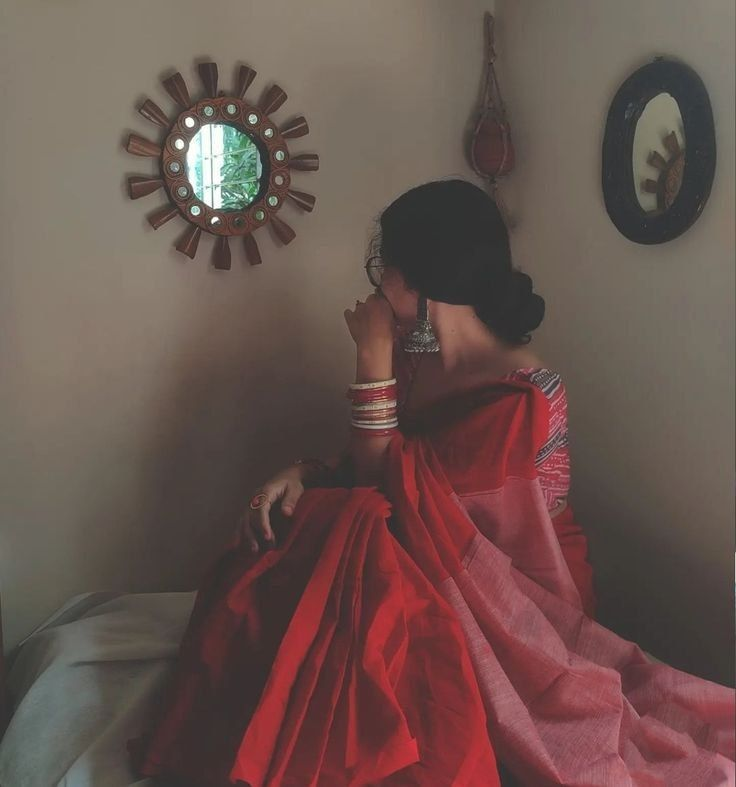
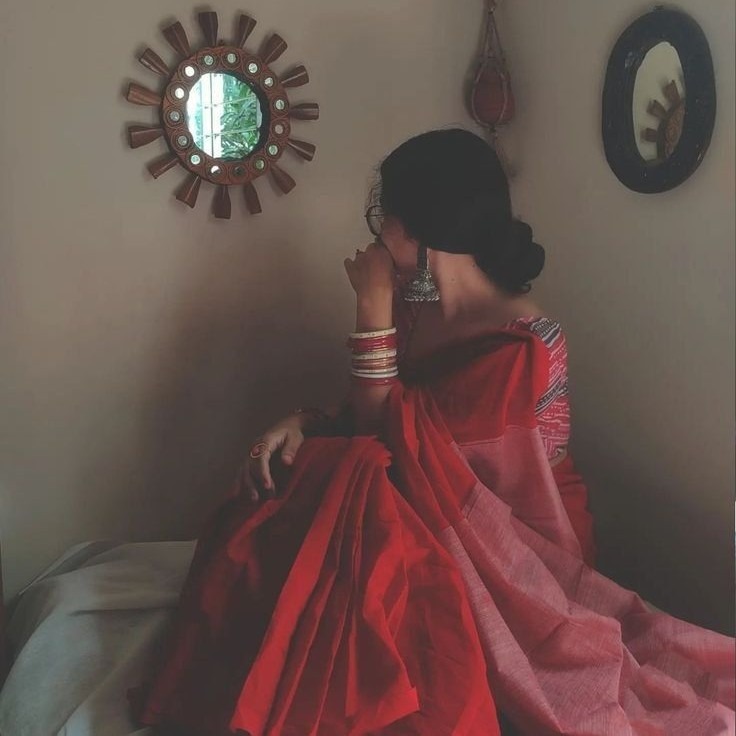
complete exclusive section functionality remaining

diff --git a/src/components/common/ProductShowcase.scss b/src/components/common/ProductShowcase.scss
@@ -4,26 +4,48 @@
 
   .product-images {
     flex: 1;
+    position: relative;
     .main-image {
       width: 100%;
-      
+      max-height: 800px; // Optional: set a fixed height to prevent page shift
+      object-fit: cover;
+      display: block;
       
     }
 
     .thumbnails {
-      display: flex;
-      gap: 0.5rem;
-      margin-top: 1rem;
-
+       position: absolute;
+    bottom: 1rem; // Adjust this based on your design
+    left: 50%;
+    transform: translateX(-50%);
+    display: flex;
+    flex-direction: row;
+    justify-content: center;
+    align-items: center;
+    gap: 0.5rem;
+      
       img {
-        width: 60px;
-        height: 60px;
+        width: 100px;
+        height: 100px;
         object-fit: cover;
-        border-radius: 4px;
-        border: 1px solid #ccc;
+        border: 2px solid transparent;
         cursor: pointer;
-      }
+        opacity: 0.6;
+        transition: all 0.3s ease;
+    
+
+    &:hover {
+      opacity: 1;
+      border-color: #aaa;
     }
+
+    &.active {
+      border-color: #fff;
+      opacity: 1;
+    }
+  }
+}
+
   }
 
   .product-info {
@@ -68,7 +90,8 @@
     }
 
     h2 {
-      font-size: 2rem;
+      font-size: 1.5rem;
+      font-weight: 500;
       margin-bottom: 1rem;
       padding-left: 2rem;
       padding-top: 2rem;
@@ -81,8 +104,9 @@
       padding-left: 2rem;
       .price {
         font-size: 2.5rem;
+        font-weight: 500;
         color: #222;
-        font-weight: bold;
+        
       }
       .old-price {
         text-decoration: line-through;
@@ -107,13 +131,13 @@
         .options {
           display: flex;
           gap: 1rem;
-
+          font-weight: 500;
           button {
             padding: 0.5rem 1rem;
             border: 1px solid #ccc;
             background: #f9f9f9;
             cursor: pointer;
-            border-radius: 6px;
+            
             &.selected {
               border-color: #000;
               background: #fff;
@@ -190,13 +214,24 @@
       justify-content: space-between;
       width: 93%;
       padding-left: 2rem;
-      margin-top: 2rem;
+      margin-top: 1rem;
       margin-bottom: 2rem;
+    }
+
+    .info-one, .info-two, .info-three{
+      display: flex;
+      gap: 0.5rem;
+      align-items: center;
+      img{
+        width: 30px;
+        height: 30px;
+      }
     }
 
     .desc{
       padding-left: 2rem;
       margin-top: 2rem;
+      padding-right: 3rem;
 
       h4{
         font-size: 1.2rem;
@@ -211,4 +246,140 @@
       }
     }
   }
+}
+
+@media screen and (max-width: 768px) {
+  .product-page{
+    display: flex;
+    flex-direction: column;
+    
+
+    .product-images {
+      flex: 1;
+      position: relative;
+    .main-image {
+      width: 100%;
+      height: 410px; // Optional: set a fixed height to prevent page shift
+      object-fit: contain;
+      object-position: center;
+      
+      display: block;
+      
+    }
+    .thumbnails {
+       position: absolute;
+       bottom: 4rem; // Adjust this based on your design
+       left: 50%;
+       transform: translateX(-50%);
+       display: flex;
+       flex-direction: row;
+       justify-content: center;
+       align-items: center;
+       gap: 0.5rem;
+      
+          img {
+           width: 70px;
+           height: 70px;
+           object-fit: cover;
+           border: 2px solid transparent;
+           cursor: pointer;
+           opacity: 0.6;
+           transition: all 0.3s ease;
+    
+
+          &:hover {
+            opacity: 1;
+            border-color: #aaa;
+          }
+
+          &.active {
+            border-color: #fff;
+            opacity: 1;
+          }
+        }
+      }
+    }
+
+    .product-info{
+      width: 100vw;
+      overflow-x: hidden ;
+     
+
+      .heading{
+
+    display: flex;
+    flex-direction: column;
+    align-items: center ;
+    justify-content: center;
+    align-self: center;
+    padding-right: 0 !important;
+    
+    
+    h1{
+      
+      font-family: "PlayFair Display";
+      text-transform: uppercase;
+      text-align: center;
+      padding-left: 0 !important;
+      padding-top: 0 ;
+    }
+
+    .see-all{
+      padding: 0.5rem 3.5rem;
+      margin-bottom: 0.4rem;
+      margin-top: 1rem;
+      border: 1px solid #ccc;
+      background: #f9f9f9;
+    }
+
+  }
+
+  .divider-heading{
+      
+      width: 70%;
+      background-color: #989898;
+      height: 1px;
+      margin: 2rem auto;
+      opacity: 0.5;
+    }
+
+    .info {
+      font-size: 0.9rem;
+      color: #555;
+      display: flex;
+      flex-direction: row;
+      flex-wrap: wrap;
+      justify-content: space-between;
+      width: 100vw;
+      
+      margin-top: 1rem;
+      margin-bottom: 2rem;
+    }
+
+    .info__column{
+      flex: 1 1 50%;
+      display: flex;
+      align-items: center;
+      gap: 0.5rem;
+
+      img{
+        width: 24px;
+        height: 24px;
+      }
+    }
+
+
+    .info__column:nth-child(3) {
+      flex-basis: 100%;
+      margin: 1rem auto;
+      margin-top: 1rem
+    }
+
+  }
+
+    
+  }
+
+  
+  
 }

diff --git a/src/components/common/ProductShowcase.jsx b/src/components/common/ProductShowcase.jsx
@@ -1,19 +1,32 @@
-import React from "react";
+import React, {useState} from "react";
 import "./ProductShowcase.scss";
 import saree3 from "../../assets/saree3.jpeg"
 import saree2 from "../../assets/saree2.jpeg"
 import saree1 from "../../assets/saree1.jpeg"
+import lock from "../../assets/online-shopping.png"
+import delivery from "../../assets/delivery-truck.png"
+import parcel from "../../assets/express-delivery.png"
+
+const images = [saree1, saree2, saree3, saree1]; // or use a unique list
 
 const ProductShowcase = () => {
+
+  const [selectedImage, setSelectedImage] = useState(saree3);
   return (
     <div className="product-page">
       {/* LEFT: Images */}
       <div className="product-images">
-        <img className="main-image" src={saree3} alt="Dress" />
+        <img className="main-image" src={selectedImage} alt="Dress" />
         <div className="thumbnails">
-          <img src={saree1} alt="thumb1" />
-          <img src={saree2} alt="thumb2" />
-          <img src={saree3} alt="thumb3" />
+          {images.map((img, index) => (
+            <img
+              key={index}
+              src={img}
+              alt={`thumb${index}`}
+              className={`thumbnail ${selectedImage === img ? "active" : ""}`}
+              onClick={() => setSelectedImage(img)}
+            />
+          ))}
         </div>
       </div>
 
@@ -60,9 +73,19 @@ const ProductShowcase = () => {
         <div className="divider"></div>
 
          <div className="info">
-          <span>🔒 Safe Payment</span>
-          <span>🚚 Free Shipping</span>
-          <span>📦 Delivery in 2-5 days</span>
+          
+          <div className="info-one info__column">
+            <img src={lock} alt="" srcset="" />
+            <span>Safe Payment</span>
+          </div>
+          <div className="info-two info__column">
+            <img src={delivery} alt="" srcset="" />
+            <span>Free Shipping</span>
+          </div>
+          <div className="info-three info__column">
+            <img src={parcel} alt="" srcset="" />
+            <span>Delivery in 2-5 days</span>
+          </div>
         </div>
 
         <div className="actions">
